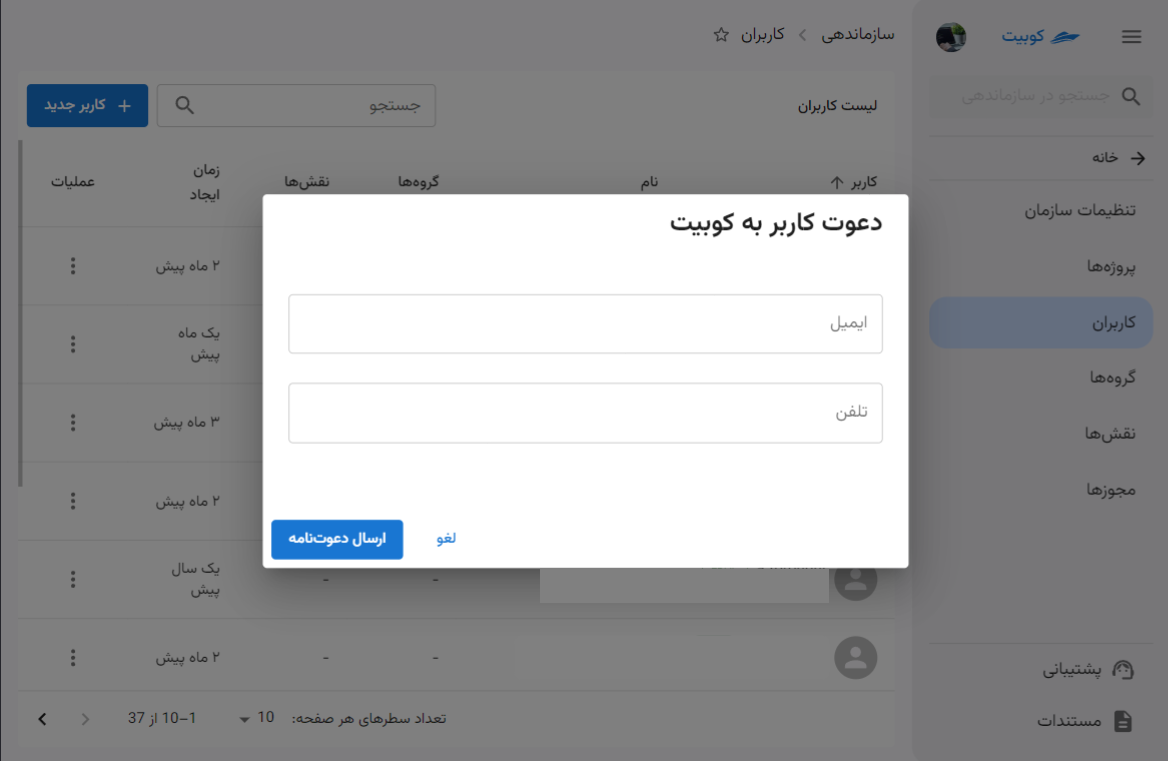
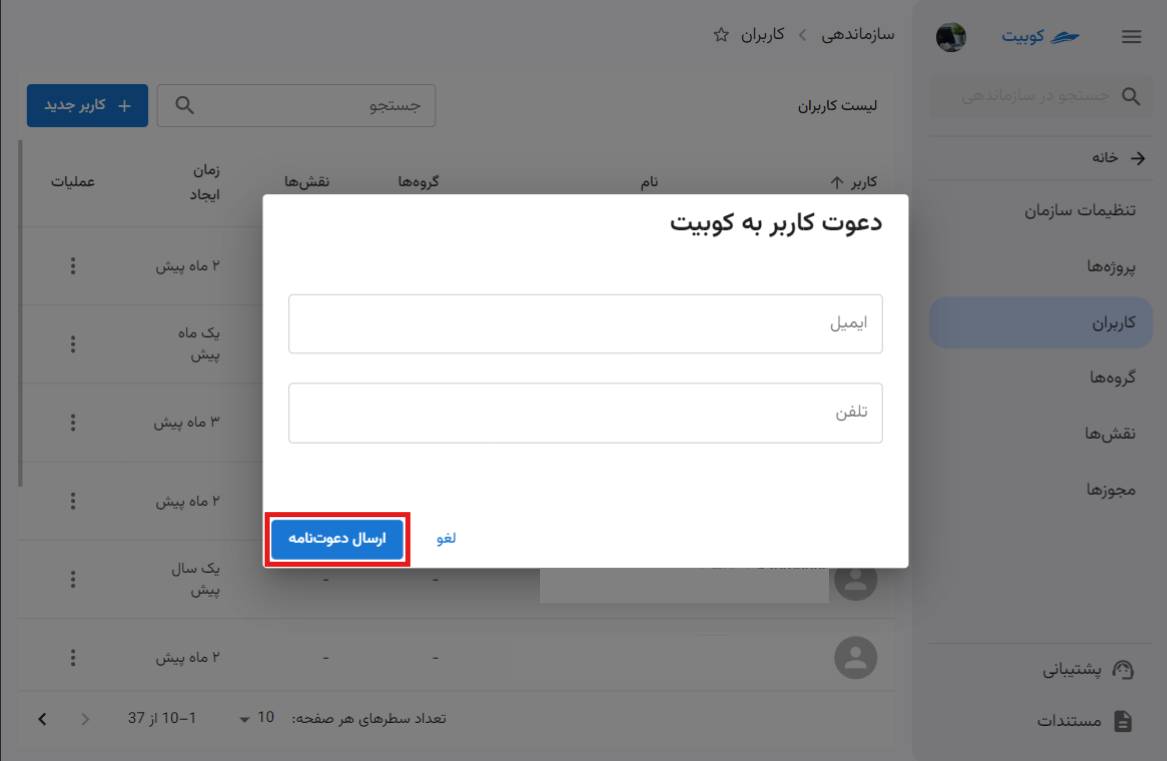
complete invite user in organize

diff --git a/docs/fa/organize/organization.md b/docs/fa/organize/organization.md
@@ -25,7 +25,7 @@
 | [رسان](../../resan) (مرکز پیام)             |                 سرویس پیامرسانی مرکزی و ارائه APIهای مختلف ارسال پیام |
 
 :::info[سرویسهای پیشفرض]
-برخی سرویسها پس از ایجاد حساب کاربری و ساخت سازمان، به صورت پیشفرض برای سازمان فعال میشود. این سرویسها شامل **زیرساخت** و **باکتها** میباشند.
+برخی سرویسها پس از ایجاد حساب کاربری و ساخت سازمان، به صورت پیشفرض برای سازمان فعال میشوند. این سرویسها شامل **زیرساخت** و **باکتها** میباشند.
 :::
 
 در انتهای صفحه **تنظیمات سازمان**، لیست تمام سرویسهای کوبیت وجود دارد و وضعیت هر سرویس در سازمان فعلی قابل مشاهده میباشد:
@@ -35,11 +35,11 @@
 
 ## نحوه فعالسازی و غیرفعالسازی سرویسها
 
-فعال/غیرفعال سازی یک سرویس توسط سرویس پشتیبانی کوبیت انجام می شود، به این صورت که یک تیکت شامل درخواست شما ایجاد شده و برای تیم پشتیبانی ارسال می شود. در ادامه به شرح مراحل می پردازیم.
+فعال/غیرفعال سازی یک سرویس توسط سرویس پشتیبانی کوبیت انجام می شود، به این صورت که یک تیکت شامل درخواست شما ایجاد شده و برای پشتیبانی ارسال می شود. پس از تایید توسط پشتیبانی، سرویس برای شما فعال خواهد شد. در ادامه به شرح این مراحل میپردازیم.
 
 - ابتدا باید روی دکمه سه نقطه مرتبط با هر سرویس کلیک کنید.
 - سپس متناسب با وضعیت فعلی سرویس، گزینه **درخواست فعالسازی** یا **درخواست غیرفعالسازی** را انتخاب کنید.
-- متناظر با درخواست شما، تیکتی ساخته شده و به تیم پشتیبانی کوبیت ارسال میشود.
+- متناظر با درخواست شما، تیکتی ساخته شده و برای تیم پشتیبانی کوبیت ارسال میشود.
 
 ### فعالسازی
 
@@ -56,58 +56,69 @@
 
 ## پروژهها
 
-از بخش **پروژهها** دسترسی سریع به لیست پروژهها سازمان و ایجاد پروژه جدید فراهم شده است.
+از بخش **پروژهها** دسترسی سریع به **لیست پروژهها** و **ایجاد پروژه جدید** فراهم شده است.
+![Organization: projects](projects-in-organize.png)
 
-با کلیک بر **پروژهها** به لیست پروژهها هدایت میشوید:
+با کلیک روی **پروژهها** به لیست پروژهها هدایت میشوید:
 ![Organization: projects list](projects-list.png)
 
-با کلیک روی **پروژه جدید** از بخش **پروژهها** در صفحه اصلی سازماندهی، میتوانید یک پروژه جدید ایجاد کنید:
+با کلیک روی **پروژه جدید** در کارت **پروژهها**، میتوانید یک پروژه جدید ایجاد کنید:
 ![Organization: new project](new-project.png)
 
-- عنوان و کلید پروژه را وارد کنید.
-- سپس با کلیک روی **ایجاد**، پروژه ساخته میشود و از طریق **پروژهها** قابل دسترس است:
-  ![Organization: create project form](create-project-form.png)
+**عنوان** و **کلید** پروژه را وارد کرده و روی **ایجاد** کلیک کنید:
+![Organization: create project form](create-project-form.png)
+برای توضیح بیشتر ساخت پروژه، میتوانید به سند [ساخت پروژه](../project#create-project) مراجعه کنید.
 
 ## کاربران
 
-از بخش **کاربران** دسترسی سریع به لیست کاربران سازمان و افزودن کاربران جدید فراهم شده است.
+از بخش **کاربران** دسترسی سریع به لیست کاربران و افزودن کاربران جدید فراهم شده است.
+![Organization: users](users-in-organize.png)
 
 با کلیک روی **کاربران** به لیست کاربران هدایت میشوید:
 ![Organization: users list](users-list.png)
 
-با کلیک روی **پروژه جدید** از بخش **کاربران** در صفحه اصلی سازماندهی، میتوانید کاربر جدید به سازمان اضافه کنید:
+با کلیک روی **کاربر جدید** در کارت **کاربران**، میتوانید کاربر جدید به سازمان اضافه کنید:
 ![Organization: new user](new-user.png)
 
 سپس گزینههای مختلف افزودن کاربر را مشاهده می کنید:
 ![IAM: users type](users-type.png)
 در ادامه به توضیح مراحل هر کدام از این شیوهها پرداخته شده است.
 
-#### افزودن کاربر LDAP
-
-سپس اطلاعات خواسته شده کاربر را وارد کنید:
-![Organization: add ldap user form](add-ldap-user-form.png)
-
-پس از تایید اطلاعات و کلیک روی **افزودن کاربر LDAP** کاربر به سازمان افزوده خواهد شد.
+:::info[افزودن کاربر]
+برای توضیح بیشتر مراحل افزودن کاربر، میتوانید به سند [مدیریت کاربران](../user-management) مراجعه کنید.
+:::
 
 #### افزودن کاربر کوبیت
 
-سپس اطلاعات خواسته شده را برای دعوت کاربر وارد کنید:
+در صورت افزودن کاربری کوبیتی، روی گزینه **کاربر کوبیت** کلیک کنید تا به فرم ارسال دعوتنامه هدایت شوید.
+
+سپس اطلاعات خواسته شده را برای دعوت کاربر وارد کنید و روی **ارسال دعوتنامه** کلیک کنید:
 ![Organization: add kubit user form](add-kubit-user-form.png)
+
+#### افزودن کاربر LDAP
+
+در صورت افزودن کاربر LDAP، روی گزینه **کاربر LDAP** کلیک کنید تا به فرم ساخت کاربر هدایت شوید.
+
+سپس اطلاعات خواسته شده کاربر را وارد کنید و روی **افزودن کاربر LDAP** کلیک کنید:
+![Organization: add ldap user form](add-ldap-user-form.png)
 
 ## گروهها
 
-از بخش **گروهها** دسترسی سریع به لیست گروههای سازمان و ایجاد گروه جدید فراهم شده است.
+از بخش **گروهها** دسترسی سریع به **لیست گروهها** و **ایجاد گروه جدید** فراهم شده است.
+![Organization: groups](groups-in-organize.png)
 
 با کلیک روی **گروهها** به لیست گروهها هدایت میشوید:
 ![Organization: gp list](groups-list.png)
 
-با کلیک روی **گروه جدید** میتوایند یک گروه جدید ایجاد کنید:
+با کلیک روی **گروه جدید** در کارت **کاربران**، میتوایند یک گروه جدید ایجاد کنید:
 ![Organization: new gp](new-gp.png)
 
-سپس اطلاعات مورد نیاز را وارد کنید:
+سپس اطلاعات مورد نیاز برای ساخت گروه را وارد کرده و روی **ساخت گروه جدید** کلیک کنید:
 ![Organization: create gp form](create-gp-form.png)
 
 :::info[توجه]
 اضافه کردن مقادیری مانند کاربران و نقشها، اختیاری بوده و در آینده نیز میتوانید این مقادیر را به گروه ساخته شده، اضافه کنید.
 :::
 با تایید اطلاعات وارد شده، گروه ساخته شده و از طریق لیست گروهها قابل دسترسی است.
+
+برای توضیح بیشتر ساخت گروه، میتوانید به سند [ساخت گروه](../groups#create-group) مراجعه کنید.

diff --git a/docs/fa/account/login.md b/docs/fa/account/login.md
@@ -24,3 +24,29 @@
 ![Login: enter username](enter-username-in-org.png)
 
 با دنبال کردن این مراحل، میتوانید به پنل کوبیت وارد شوید.
+
+## ورود به سازمان دعوت شده
+
+در صورتی که به سازمانی دعوت شدهاید، از دو روش زیر برای ورود به پنل سازمانی میتوانید استفاده کنید:
+
+### لینک دعوتنامه (کاربر کوبیت)
+
+اگر نوع عضویت شما **کاربر کوبیت** است، با کلیک روی لینک ارسال شده به ایمیل یا شماره تلفن خود، میتوانید وارد پنل شوید.
+
+اگر تا پیش از این حساب کاربری نداشتهاید، به صفحه [صفحه ثبتنام](https://auth.kubit.ir/fa/register/) هدایت خواهید شد و با [ایجاد حساب کاربری](../register)، به سازمان مربوطه ملحق خواهید شد.
+
+اگر حساب کاربری داشته باشید و وارد پنل شده باشید، به طور مستقیم به پنل سازمانی مربوطه هدایت خواهید شد.
+
+### کاربر LDAP
+
+اگر به عنوان کاربر LDAP به سازمان افزوده شدهاید، باید به [صفحه ورود](https://auth.kubit.ir/fa/login/) مراجعه کنید و از گزینه **بازیابی رمز عبور** برای تعیین رمز عبور جدید استفاده کنید.
+
+در صفحه ورود به حساب کاربری، روی **ورود سازمانی** کلیک کنید:
+![Login: login with org](login-with-org.png)
+
+در این مرحله نام سازمان مربوطه را وارد کرده و گزینه **ادامه** را بزنید:
+![Login: login with org continue](login-with-org-continue.png)
+
+سپس روی **بازیابی** کلیک کنید:
+![Login: forgot ldap password](forgot-ldap-password.png)
+برای مطالعه ادامه مراحل فراموشی رمز عبور، به سند [فراموشی رمز عبور](../forgot-password) مراجعه کنید.

diff --git a/docs/fa/organize/user-management.md b/docs/fa/organize/user-management.md
@@ -19,10 +19,14 @@
 روی گزینه **کاربر کوبیت** کلیک کنید:
 ![User: add kubit user](add-kubit-user.png)
 
-اطلاعات خواسته شده را برای دعوت کاربر وارد کنید:
+اطلاعات خواسته شده را برای دعوت کاربر وارد کرده و روی **ارسال دعوتنامه** کلیک کنید:
 ![User: add kubit user form](add-kubit-user-form.png)
-در انتها، کد دعوت برای کاربر ارسال میشود.
-برای
+علاوه بر ارسال لینک دعوتنامه برای کاربر، لینک مربوطه نیز برای شما نمایش داده میشود:
+![User: invitation link](invitation-link.png)
+
+نمونه لینک ارسال شده برای کاربر:
+![User: invitation email](invitation-email.png)
+با کلیک روی لینک ارسال شده، کاربر به سازمان شما افزوده میشود.
 
 #### افزودن کاربر LDAP
 
@@ -30,7 +34,7 @@
 ![User: add ldap user](add-ldap-user.png)
 
 سپس اطلاعات خواسته شده کاربر را وارد کنید:
-![User: add![new-project.png](new-project.png) ldap user form](add-ldap-user-form.png)
+![User: add ldap user form](add-ldap-user-form.png)
 
 پس از تایید اطلاعات و کلیک روی **افزودن کاربر LDAP** کاربر به سازمان افزوده خواهد شد.
 
@@ -38,6 +42,7 @@
 
 برای ویرایش اطلاعات کاربر کافی است که در قسمت **کاربران** بخش **سازماندهی**، روی کاربر موردنظر را انتخاب و روی دکمهی **ویرایش** کلیک کنید. ویرایش موردنظر را انجام دهید و سپس روی دکمهی **تایید** کلیک کنید:
 ![User: edit user info btn](edit-user-info-btn.png)
+
 :::caution[توجه]
 توجه داشته باشید که **نام کاربری** و **نوع وضعیت ورود** کاربر را نمیتوانید تغییر دهید.
 :::

diff --git a/docs/fa/organize/iam.md b/docs/fa/organize/iam.md
@@ -23,7 +23,7 @@
 
 - برای افزودن کاربر به گروههای دیگر، روی دکمه **افزودن به گروه** کلیک کنید.
 - از لیست گروههای سازمان، گروه موردنظر را انتخاب کنید.
-- سپس، با کلیک روی **افزودن** کاربر را به گروه انتخاب شده، اضافه میکنید.
+- سپس با کلیک روی **افزودن**، کاربر را به گروه انتخاب شده، اضافه میکنید.
   ![IAM: add user to gp](add-user-to-gp.png)
   ![IAM: add user to gp form](add-user-to-gp-form.png)
   ![IAM: gps list](gps-list.png)
@@ -43,7 +43,7 @@
 
 - برای افزودن نقش به نقشهای کاربر، روی دکمه **انتساب نقش** کلیک کنید.
 - از لیست نقشهای موجود، نقش موردنظر را انتخاب کنید و سطح دسترسی در پروژه را تعیین کنید.
-- سپس، با کلیک روی **افزودن** نقش انتخاب شده، به کاربر اضافه میشود.
+- سپس با کلیک روی **افزودن**، نقش انتخاب شده، به کاربر اضافه میشود.
   ![IAM: add role to user btn](add-role-to-user-btn.png)
   ![IAM: add role to user form](add-role-to-user-form.png)
   ![IAM: roles list in assign to user](roles-list-in-assign-to-user.png)

diff --git a/docs/fa/organize/project.md b/docs/fa/organize/project.md
@@ -9,7 +9,7 @@
 با کلیک روی نام هر پروژه از لیست، به صفحه جزئیات آن پروژه هدایت میشوید. در این صفحه **تنظیمات** و مدیریت **دسترسی اعضا** وجود دارد:
 ![Project: project settings](project-settings.png)
 
-## ساخت پروژه
+## ساخت پروژه{#create-project}
 
 برای ساخت پروژه جدید، روی دکمه **پروژه جدید** کلیک کنید:
 ![IAM: create project btn](create-project-btn.png)

diff --git a/docs/fa/organize/groups.md b/docs/fa/organize/groups.md
@@ -11,7 +11,7 @@
 با کلیک روی نام هر گروه، به صفحه جزئیات گروه هدایت میشوید:
 ![Groups: group details](group-details.png)
 
-## ساخت گروه
+## ساخت گروه{#create-group}
 
 با کلیک روی دکمه **گروه جدید**، میتوانید یک گروه جدید تعریف کنید:
 ![Groups: create group btn](create-group-btn.png)

diff --git a/docs/fa/organize/index.md b/docs/fa/organize/index.md
@@ -13,6 +13,8 @@ subDocuments:
 
 بخش **سازماندهی**، دسترسی به تمامی اطلاعات و تنظیمات مرتبط با سازمان، از جمله مدیریت سرویسها، پروژهها، کاربران و دسترسی اعضا را فراهم میکند.
 
+![Organize: organize](organize.png)
+
 ## مفاهیم پایه
 
 ### پروژه {#project}
